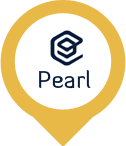
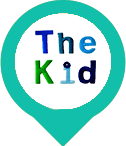
google map css

diff --git a/js/theme/google-map-init.js b/js/theme/google-map-init.js
@@ -23,11 +23,11 @@
                 opened: false,
             },
             mapTypeId: google.maps.MapTypeId.ROADMAP,
-        }
+        };
         var mapElement = document.getElementById('googlemap1');
         var map = new google.maps.Map(mapElement, mapOptions);
         var locations = [
-    ['The Kid', 'Varful Berivoiul Mare, nr 72A, Bucharest, Romania', phone, 'contact@tkid.ro', 'www.tkid.ro', latitude, longitude, '/images/content/pearl-map.png']
+    ['The Kid', 'Varful Berivoiul Mare, nr 72A, Bucharest, Romania', phone, 'contact@tkid.ro', 'www.tkid.ro', latitude, longitude/*, '/images/content/pearl-map.png'*/]
         ];
         for (i = 0; i < locations.length; i++) {
       if (locations[i][1] =='undefined'){ description ='';} else { description = locations[i][1];}
@@ -82,7 +82,7 @@
           $(".gm-style").append(content);
       }
   });
-    var content = '<div style="position: absolute; left: 0px; top: 100px;">\n' +
+    var content = '<div style="position: absolute; left: 0px; top: 85px; right:80%">\n' +
       '    <div style="background-color: white; margin: 10px; padding: 1px; box-shadow: rgba(0, 0, 0, 0.3) 0px 1px 4px -1px; border-radius: 2px;">\n' +
       '        <div jstcache="0" style="">\n' +
       '            <div jstcache="119" class="place-card place-card-large">\n' +
@@ -92,7 +92,7 @@
       '                </div>\n' +
       '                <div jstcache="38" class="navigate">\n' +
       '                    <div jsaction="placeCard.directions" class="navigate">\n' +
-      '                        <a target="_blank" jstcache="53" href="https://maps.google.com/maps?ll='+latitude+','+longitude+'&amp;z=15&amp;daddr=Drumul%20V%C3%A2rful%20Berivoiul%20Mare%20Bucure%C8%99ti@44.5182825,26.0433924" class="navigate-link">\n' +
+      '                        <a target="_blank" jstcache="53" href="https://maps.google.com/maps?q=Drumul+Vârful+Berivoiul+Mare+72a+București+Sector+1" class="navigate-link">\n' +
       '                            <div class="icon navigate-icon"></div>\n' +
       '                            <div jstcache="54" class="navigate-text">Directions</div>\n' +
       '                        </a>\n' +
@@ -107,7 +107,7 @@
       '                </div>\n' +
       '                <div jstcache="45" class="saved-from-source-link" style="display:none"></div>\n' +
       '                <div class="bottom-actions">\n' +
-      '                    <div class="google-maps-link"> <a target="_blank" jstcache="46" href="https://maps.google.com/maps?ll='+latitude+','+longitude+'&amp;z=15&amp;q=Drumul%20V%C3%A2rful%20Berivoiul%20Mare%20Bucure%C8%99ti" jsaction="mouseup:placeCard.largerMap">View larger map</a> </div>\n' +
+      '                    <div class="google-maps-link"> <a target="_blank" jstcache="46" href="https://maps.google.com/maps?q=Drumul+Vârful+Berivoiul+Mare+72a+București+Sector+1" jsaction="mouseup:placeCard.largerMap">View larger map</a> </div>\n' +
       '                    <a target="_blank" jstcache="47" class="send-to-device-button" style="display:none"></a>\n' +
       '                </div>\n' +
       '            </div>\n' +

diff --git a/style/theme/css/google-place-card.min.css b/style/theme/css/google-place-card.min.css
@@ -2,4 +2,7 @@
 .gm-style-iw * {display: block;width: 270px !important;overflow: hidden;}
 .gm-style-iw h4{ margin: 0; padding: 0; font-size:26px; margin:0 0 6px 0;}
 .gm-style-iw p { margin: 0; padding: 0;}
-.gm-style-iw a { color: #4272db; }
+.gm-style-iw a { color: #4272db!important; text-decoration: underline!important;}
+.gm-style .place-card .navigate-text{ margin: 0 auto!important;text-align: center!important; }
+.gm-style .navigate {display: block!important;}
+.gm-style .bottom-actions .google-maps-link {display: block!important;text-align: center!important;}

diff --git a/app/config/fixconfig.php b/app/config/fixconfig.php
@@ -12,6 +12,7 @@ define('_THUMBS_PATH', 'thumbs/');
 define('_LOCATION_LATITUDE', 44.518283);
 define('_LOCATION_LONGITUDE', 26.043392);
 define('_LOCATION_PHONE', '+40 729 577 854');
+define('_LOCATION_POSTAL_CODE', 014066); // check it !!!
 
 define('_SALT_STRING', '5treat*&ing-!x');
 ?>
